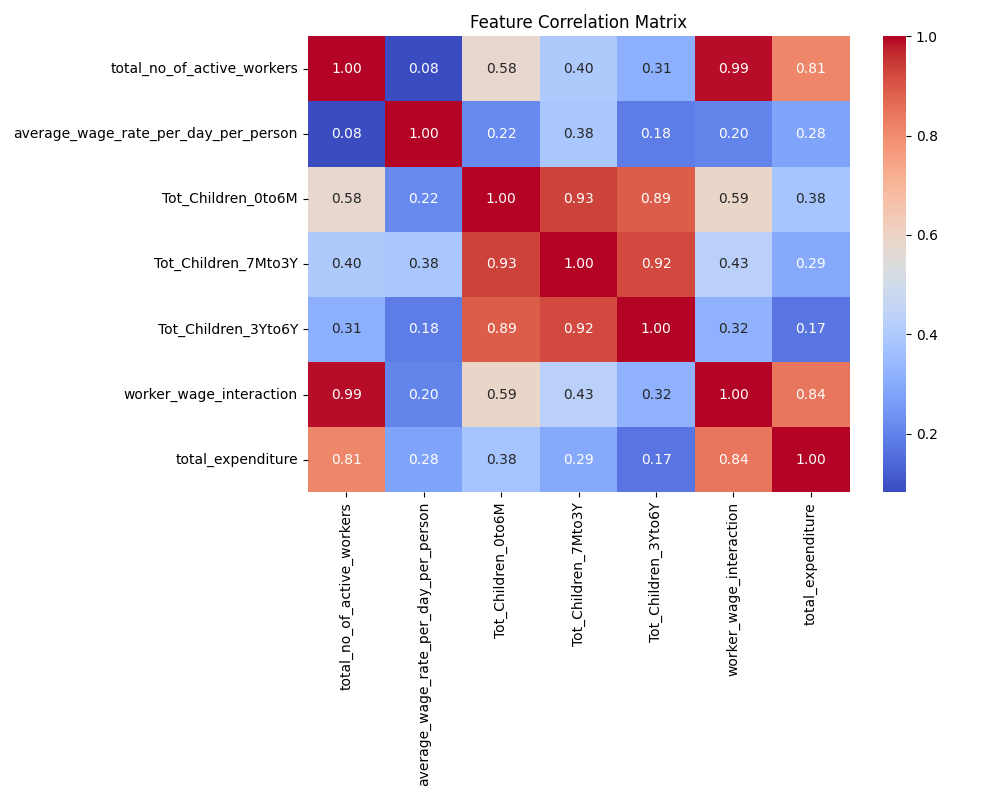
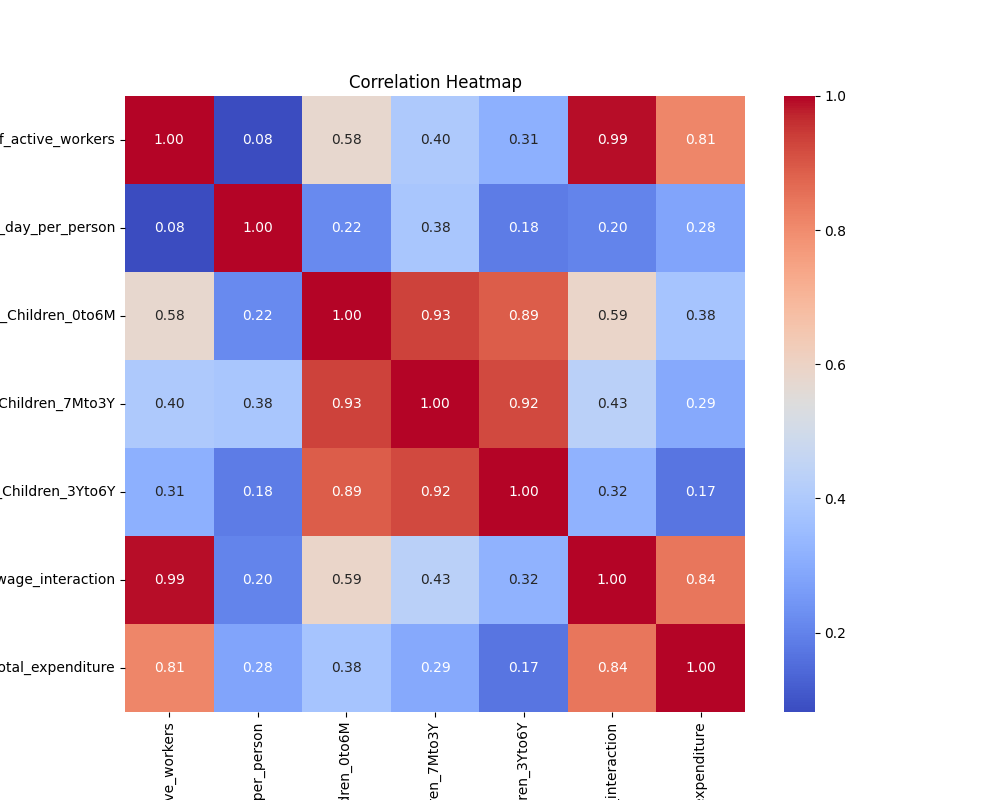
LAB2

diff --git a/LAB2/LAB2.py b/LAB2/LAB2.py
@@ -2,65 +2,17 @@ import pandas as pd
 import numpy as np
 import matplotlib.pyplot as plt
 import seaborn as sns
+from sklearn.model_selection import train_test_split, GridSearchCV
+from sklearn.linear_model import LinearRegression, Lasso, Ridge, ElasticNet
+from sklearn.preprocessing import StandardScaler
+from sklearn.metrics import mean_squared_error, r2_score
 
 # ---------------------------------------------------------
-# 1. Gradient Descent Implementation (Elastic Net Support)
-# ---------------------------------------------------------
-def gradient_descent(X, y, lr=0.01, iters=5000, l1=0, l2=0):
-    """
-    Performs Gradient Descent with Elastic Net regularization.
-    l1=0, l2=0 => OLS (Ordinary Least Squares)
-    l1>0, l2=0 => Lasso Regression
-    l1=0, l2>0 => Ridge Regression
-    l1>0, l2>0 => Elastic Net Regression
-    """
-    m, n = X.shape
-    theta = np.zeros((n, 1))
-    cost_history = []
-    
-    for i in range(iters):
-        predictions = X.dot(theta)
-        errors = predictions - y
-        
-        # Standard MSE Gradient
-        gradient = (1/m) * X.T.dot(errors)
-        
-        # Add Regularization Gradients (applied to all except intercept theta[0])
-        if l1 > 0:
-            gradient[1:] += l1 * np.sign(theta[1:])
-        if l2 > 0:
-            gradient[1:] += 2 * l2 * theta[1:]
-            
-        theta = theta - lr * gradient
-        
-        # Calculate Cost for Monitoring
-        mse = (1/(2*m)) * np.sum(np.square(errors))
-        penalty = l1 * np.sum(np.abs(theta[1:])) + l2 * np.sum(np.square(theta[1:]))
-        cost_history.append(mse + penalty)
-        
-    return theta, cost_history
-
-def calculate_metrics(y_true, y_pred, n_samples, n_features):
-    """Calculates Mean Squared Error and Adjusted R-squared."""
-    mse = np.mean((y_true - y_pred)**2)
-    ss_res = np.sum((y_true - y_pred)**2)
-    ss_tot = np.sum((y_true - np.mean(y_true))**2)
-    r2 = 1 - (ss_res / ss_tot) if ss_tot != 0 else 0
-    # Adjusted R2 Formula
-    adj_r2 = 1 - (1 - r2) * (n_samples - 1) / (n_samples - n_features - 1) if (n_samples - n_features - 1) > 0 else r2
-    return mse, r2, adj_r2
-
-# ---------------------------------------------------------
-# 2. Data Cleaning and Merging
+# 1. Data Cleaning and Merging
 # ---------------------------------------------------------
 print("Loading and cleaning datasets...")
-# Load datasets (Ensure these files are in your working directory)
-try:
-    mgnrega = pd.read_csv('MGNREGA_dataset_AtAGlance.csv')
-    anganwadi = pd.read_csv('number_of_children_enrolled_in_anganwadis_2025_10.csv')
-except FileNotFoundError:
-    print("Error: CSV files not found. Please ensure the filenames match.")
-    exit()
+mgnrega = pd.read_csv('MGNREGA_dataset_AtAGlance.csv')
+anganwadi = pd.read_csv('number_of_children_enrolled_in_anganwadis_2025_10.csv')
 
 # Aggregate Anganwadi data (Summing children count per district)
 ang_agg = anganwadi.groupby('D_Name').agg({
@@ -74,122 +26,140 @@ mgnrega['district_clean'] = mgnrega['district_name'].str.upper().str.strip()
 ang_agg['district_clean'] = ang_agg['D_Name'].str.upper().str.strip()
 
 # Merge Datasets
-composite_df = pd.merge(mgnrega, ang_agg, on='district_clean', how='inner')
+df = pd.merge(mgnrega, ang_agg, on='district_clean', how='inner')
 
-# Feature Selection
-target = 'total_expenditure'
+# ---------------------------------------------------------
+# 2. Feature Engineering
+# ---------------------------------------------------------
+# Target: total_expenditure
+# Artificial Regressor: Interaction between workers and wage rate
+df['worker_wage_interaction'] = (df['total_no_of_active_workers'] * df['average_wage_rate_per_day_per_person']) / 100000
+
 features = [
     'total_no_of_active_workers', 
     'average_wage_rate_per_day_per_person', 
     'Tot_Children_0to6M', 
     'Tot_Children_7Mto3Y', 
-    'Tot_Children_3Yto6Y'
+    'Tot_Children_3Yto6Y',
+    'worker_wage_interaction'
 ]
+target = 'total_expenditure'
 
-# Create Artificial Correlated Regressor
-# We create an interaction term (Workers * Wage) which we expect to be highly correlated with expenditure
-composite_df['worker_wage_interaction'] = (composite_df['total_no_of_active_workers'] * composite_df['average_wage_rate_per_day_per_person']) / 100000
-features.append('worker_wage_interaction')
-
-# Remove any missing values
-df_final = composite_df[features + [target]].dropna()
+# Drop rows with missing values
+df_final = df[features + [target]].dropna()
 
 # ---------------------------------------------------------
-# 3. Correlation Matrix and Heatmap
+# 3. Exploratory Analysis: Correlation Heatmap
 # ---------------------------------------------------------
 plt.figure(figsize=(10, 8))
 sns.heatmap(df_final.corr(), annot=True, cmap='coolwarm', fmt=".2f")
-plt.title('Feature Correlation Matrix')
-plt.tight_layout()
+plt.title('Correlation Heatmap')
 plt.savefig('correlation_heatmap.png')
-print("Correlation heatmap saved as 'correlation_heatmap.png'.")
+print("Heatmap saved as 'correlation_heatmap.png'.")
 
 # ---------------------------------------------------------
-# 4. Data Preparation
+# 4. Data Preparation and Scaling
 # ---------------------------------------------------------
-X = df_final[features].values
-y = df_final[target].values.reshape(-1, 1)
+X = df_final[features]
+y = df_final[target]
 
-# Feature Scaling (Standardization is crucial for regularization and GD convergence)
-X_mean, X_std = np.mean(X, axis=0), np.std(X, axis=0)
-X_scaled = (X - X_mean) / X_std
-X_scaled = np.hstack([np.ones((X_scaled.shape[0], 1)), X_scaled]) # Add Bias/Intercept term
+# Standardize features (Mean=0, Std=1)
+scaler = StandardScaler()
+X_scaled = scaler.fit_transform(X)
 
 # Train-Test Split (80:20)
-def train_test_split(X, y, ratio=0.8):
-    m = len(X)
-    indices = np.random.permutation(m)
-    train_size = int(m * ratio)
-    train_idx, test_idx = indices[:train_size], indices[train_size:]
-    return X[train_idx], X[test_idx], y[train_idx], y[test_idx]
-
-X_train, X_test, y_train, y_test = train_test_split(X_scaled, y, 0.8)
+X_train, X_test, y_train, y_test = train_test_split(X_scaled, y, test_size=0.2, random_state=42)
 
 # ---------------------------------------------------------
-# 5. Regression Experiments
+# 5. Hyperparameter Tuning using Scikit-Learn (GridSearchCV)
 # ---------------------------------------------------------
-# Define hyper-parameters
-lr = 0.005
-iters = 5000
+# Range of Lambda (Alpha) values to test
+alphas = [0.001, 0.01, 0.1, 1, 10, 100, 1000, 10000]
 
-# Dictionary of models to run: { "Name": {"l1": penalty, "l2": penalty} }
-experiments = {
-    "OLS (No Reg)": {"l1": 0, "l2": 0},
-    "Lasso (L1=100)": {"l1": 100, "l2": 0},
-    "Ridge (L2=100)": {"l1": 0, "l2": 100},
-    "Elastic Net": {"l1": 50, "l2": 50}
+# A. Tune Lasso
+lasso_cv = GridSearchCV(Lasso(max_iter=10000), param_grid={'alpha': alphas}, cv=5, scoring='neg_mean_squared_error')
+lasso_cv.fit(X_train, y_train)
+best_lasso_alpha = lasso_cv.best_params_['alpha']
+
+# B. Tune Ridge
+ridge_cv = GridSearchCV(Ridge(), param_grid={'alpha': alphas}, cv=5, scoring='neg_mean_squared_error')
+ridge_cv.fit(X_train, y_train)
+best_ridge_alpha = ridge_cv.best_params_['alpha']
+
+# C. Tune Elastic Net
+en_params = {
+    'alpha': alphas,
+    'l1_ratio': [0.2, 0.5, 0.8] # Ratio of L1 vs L2 penalty
+}
+en_cv = GridSearchCV(ElasticNet(max_iter=10000), param_grid=en_params, cv=5, scoring='neg_mean_squared_error')
+en_cv.fit(X_train, y_train)
+best_en_params = en_cv.best_params_
+
+print(f"\nBest Lasso Alpha: {best_lasso_alpha}")
+print(f"Best Ridge Alpha: {best_ridge_alpha}")
+print(f"Best Elastic Net Params: {best_en_params}")
+
+# ---------------------------------------------------------
+# 6. Final Model Training & Evaluation
+# ---------------------------------------------------------
+models = {
+    "OLS": LinearRegression(),
+    "Tuned Lasso": Lasso(alpha=best_lasso_alpha),
+    "Tuned Ridge": Ridge(alpha=best_ridge_alpha),
+    "Tuned ElasticNet": ElasticNet(**best_en_params)
 }
 
-final_results = []
-plt.figure(figsize=(10, 6))
-
-for name, params in experiments.items():
-    print(f"Executing {name}...")
-    theta, cost_history = gradient_descent(X_train, y_train, lr=lr, iters=iters, **params)
+results = []
+for name, model in models.items():
+    model.fit(X_train, y_train)
+    y_pred = model.predict(X_test)
     
-    # Predict and evaluate on Test set
-    y_pred = X_test.dot(theta)
-    mse, r2, adj_r2 = calculate_metrics(y_test, y_pred, len(y_test), len(features))
+    mse = mean_squared_error(y_test, y_pred)
+    r2 = r2_score(y_test, y_pred)
     
-    final_results.append({
+    # Calculate Adjusted R2
+    n = len(y_test)
+    p = X_train.shape[1]
+    adj_r2 = 1 - (1 - r2) * (n - 1) / (n - p - 1)
+    
+    results.append({
         "Model": name,
         "MSE": mse,
         "Adj R2": adj_r2,
-        "Coeffs": theta.flatten()
+        "Coefficients": np.concatenate([[model.intercept_], model.coef_]) if name != "OLS" else np.concatenate([[model.intercept_], model.coef_])
     })
-    
-    # Plot Convergence Curve
-    plt.plot(cost_history, label=name)
-
-# Format and save convergence plot
-plt.yscale('log')
-plt.title('Model Convergence Comparison')
-plt.xlabel('Iterations')
-plt.ylabel('Cost (MSE + Regularization)')
-plt.legend()
-plt.grid(True, which="both", ls="-", alpha=0.5)
-plt.savefig('convergence_comparison.png')
 
 # ---------------------------------------------------------
-# 6. Final Report and Analysis
+# 7. Final Report & Plots
 # ---------------------------------------------------------
-perf_report = pd.DataFrame(final_results).drop(columns="Coeffs")
+perf_df = pd.DataFrame(results).drop(columns="Coefficients")
 print("\n--- Model Performance Comparison ---")
-print(perf_report)
+print(perf_df)
 
-# Coefficient Comparison Table
-coeff_table = pd.DataFrame({
+# Plot Tuning Results (Lasso Example)
+plt.figure(figsize=(10, 6))
+cv_results = pd.DataFrame(lasso_cv.cv_results_)
+plt.plot(cv_results['param_alpha'], -cv_results['mean_test_score'], marker='o')
+plt.xscale('log')
+plt.xlabel('Alpha (Lambda)')
+plt.ylabel('Mean Squared Error (CV)')
+plt.title('Lasso Hyperparameter Tuning Performance')
+plt.grid(True)
+plt.savefig('tuning_curve.png')
+
+# Coefficient Comparison
+coeff_df = pd.DataFrame({
     "Feature": ["Intercept"] + features,
-    "OLS": final_results[0]["Coeffs"],
-    "Lasso": final_results[1]["Coeffs"],
-    "Ridge": final_results[2]["Coeffs"],
-    "ElasticNet": final_results[3]["Coeffs"]
+    "OLS": results[0]["Coefficients"],
+    "Lasso": results[1]["Coefficients"],
+    "Ridge": results[2]["Coefficients"],
+    "ElasticNet": results[3]["Coefficients"]
 })
 
-print("\n--- Feature Coefficients ---")
-print(coeff_table)
+print("\n--- Final Coefficients ---")
+print(coeff_df)
 
-# Save results for external use
-perf_report.to_csv('metrics_summary.csv', index=False)
-coeff_table.to_csv('coefficients_summary.csv', index=False)
-print("\nSuccess: Performance and coefficients saved as CSV files.")
+# Save results
+perf_df.to_csv('tuned_performance.csv', index=False)
+coeff_df.to_csv('tuned_coefficients.csv', index=False)
+print("\nResults saved to CSV. All plots generated.")

diff --git a/LAB2/README.md b/LAB2/README.md
@@ -4,20 +4,39 @@
 
 This project performs a comprehensive regression analysis on a composite dataset formed by merging **MGNREGA** (Mahatma Gandhi National Rural Employment Guarantee Act) district-level expenditure data with **Anganwadi** (early childhood care) enrollment data.
 
-The goal is to predict **Total MGNREGA Expenditure** based on workforce metrics, child demographics, and an engineered interaction term. The project implements a custom **Gradient Descent** engine from scratch to compare four different regression techniques:
+The goal is to analyze the relationship between social welfare employment spending and child demographics across various districts. The project implements a custom data pipeline and utilizes **Scikit-Learn** to perform automated hyperparameter tuning via **Grid Search with Cross-Validation**. We compare four different regression techniques:
 
 1. **Ordinary Least Squares (OLS):** Standard linear regression without penalties.
 2. **Lasso Regression (L1):** Performs feature selection by zeroing out redundant coefficients.
 3. **Ridge Regression (L2):** Performs coefficient shrinkage to manage multicollinearity.
 4. **Elastic Net Regression:** A hybrid approach combining L1 and L2 penalties.
 
-The analysis includes data cleaning, district-level aggregation, feature standardization, correlation heatmaps, and convergence plots to visualize the optimization process.
+---
+
+## Regression Problem Statement
+
+**Objective:** Predict the **Total Expenditure** of MGNREGA at the district level.
+
+**Hypothesis:** Total expenditure is primarily driven by the interaction between the active workforce and their wage rates, but may also be influenced by the demographic pressure of young children (represented by Anganwadi enrollment) in the region.
+
+**Variables:**
+
+* **Output ():** `total_expenditure`
+* **Regressors ():**
+* `total_no_of_active_workers`
+* `average_wage_rate_per_day_per_person`
+* `Tot_Children_0to6M`
+* `Tot_Children_7Mto3Y`
+* `Tot_Children_3Yto6Y`
+* **Artificial Regressor:** `worker_wage_interaction` (Calculated as ) to capture the primary financial driver.
+
+
 
 ---
 
 ## AI Thought Partner
 
-This project was developed in collaboration with **Gemini (Advanced/Paid Tier)**, utilizing its Python data science capabilities and mathematical reasoning.
+This project was developed in collaboration with **Gemini (Advanced/Paid Tier)**, utilizing its Python data science capabilities, tool execution for file processing, and mathematical reasoning.
 
 ---
 
@@ -25,16 +44,20 @@ This project was developed in collaboration with **Gemini (Advanced/Paid Tier)**
 
 The following sequence of prompts was used to generate the analysis and the final script:
 
-1. **Initial Assignment:** "Create a composite dataset by using two or more datasets from AIKosh / data.gov.in. Identify an output and multiple regressors. State your regression problem nicely... Clean the dataset. Analyse the dataset to see correlation between regressors. If they are not related, create an artificial regressors which is correlated with another parameter. Next perform GD on data with 80:20 train test division. See MSE and Adj R2. Experiment with different ratios and learning rates. Add L1 and L2 regularisation and see impact on performance as well as regression coefficients. Especially, which regressors became zero or were reduced."
+1. **Initial Assignment:** "Create a composite dataset by using two or more datasets from AIKosh / data.gov.in. Identify an output and multiple regressors. State your regression problem nicely... Clean the dataset. Analyse the dataset to see correlation between regressors. If they are not related, create an artificial regressors which is correlated with another parameter. Next perform GD on data with 80:20 train test division. See MSE and Adj R2. Experiment with different ratios and learning rates. Add L1 and L2 regularisation and see impact on performance as well as regression coefficients."
 2. **Visualization & Complexity:** "Add correlation matrix plots and also ridge regression and elastic net regression to the script."
-3. **Consolidation:** "Do everything from plotting, grouping, cleaning, merging datasets, regression with ols, lasso, ridge, elastic net in a single script, don't give me the script results, give me the python script for it and I will run it on my machine."
-4. **Mathematical Clarification:** "Explain the code to me line by line" and "Explain the math behind the L1 and L2 gradient updates."
+3. **Consolidation:** "Do everything from plotting, grouping, cleaning, merging datasets, regression with ols, lasso, ridge, elastic net in a single script... give me the python script for it."
+4. **Mathematical Clarification:** "Explain the math behind the L1 and L2 gradient updates."
+5. **Optimization:** "I want this hyperparam tuning in my code, include it in the script (u can use scikit learn no probs)."
 
 ---
 
 ## How to Run
 
 1. Ensure `MGNREGA_dataset_AtAGlance.csv` and `number_of_children_enrolled_in_anganwadis_2025_10.csv` are in the same directory as the script.
-2. Install dependencies: `pip install pandas numpy matplotlib seaborn`
+2. Install dependencies: `pip install pandas numpy matplotlib seaborn scikit-learn`
 3. Execute the script: `python analysis_script.py`
-4. View the generated `correlation_heatmap.png` and `convergence_comparison.png` for results.
+4. **Outputs:**
+* `correlation_heatmap.png`: Visualizes relationships and multicollinearity.
+* `tuning_curve.png`: Shows how model error changes with different Lambda values.
+* `tuned_performance.csv` & `tuned_coefficients.csv`: Final model metrics and weights.
